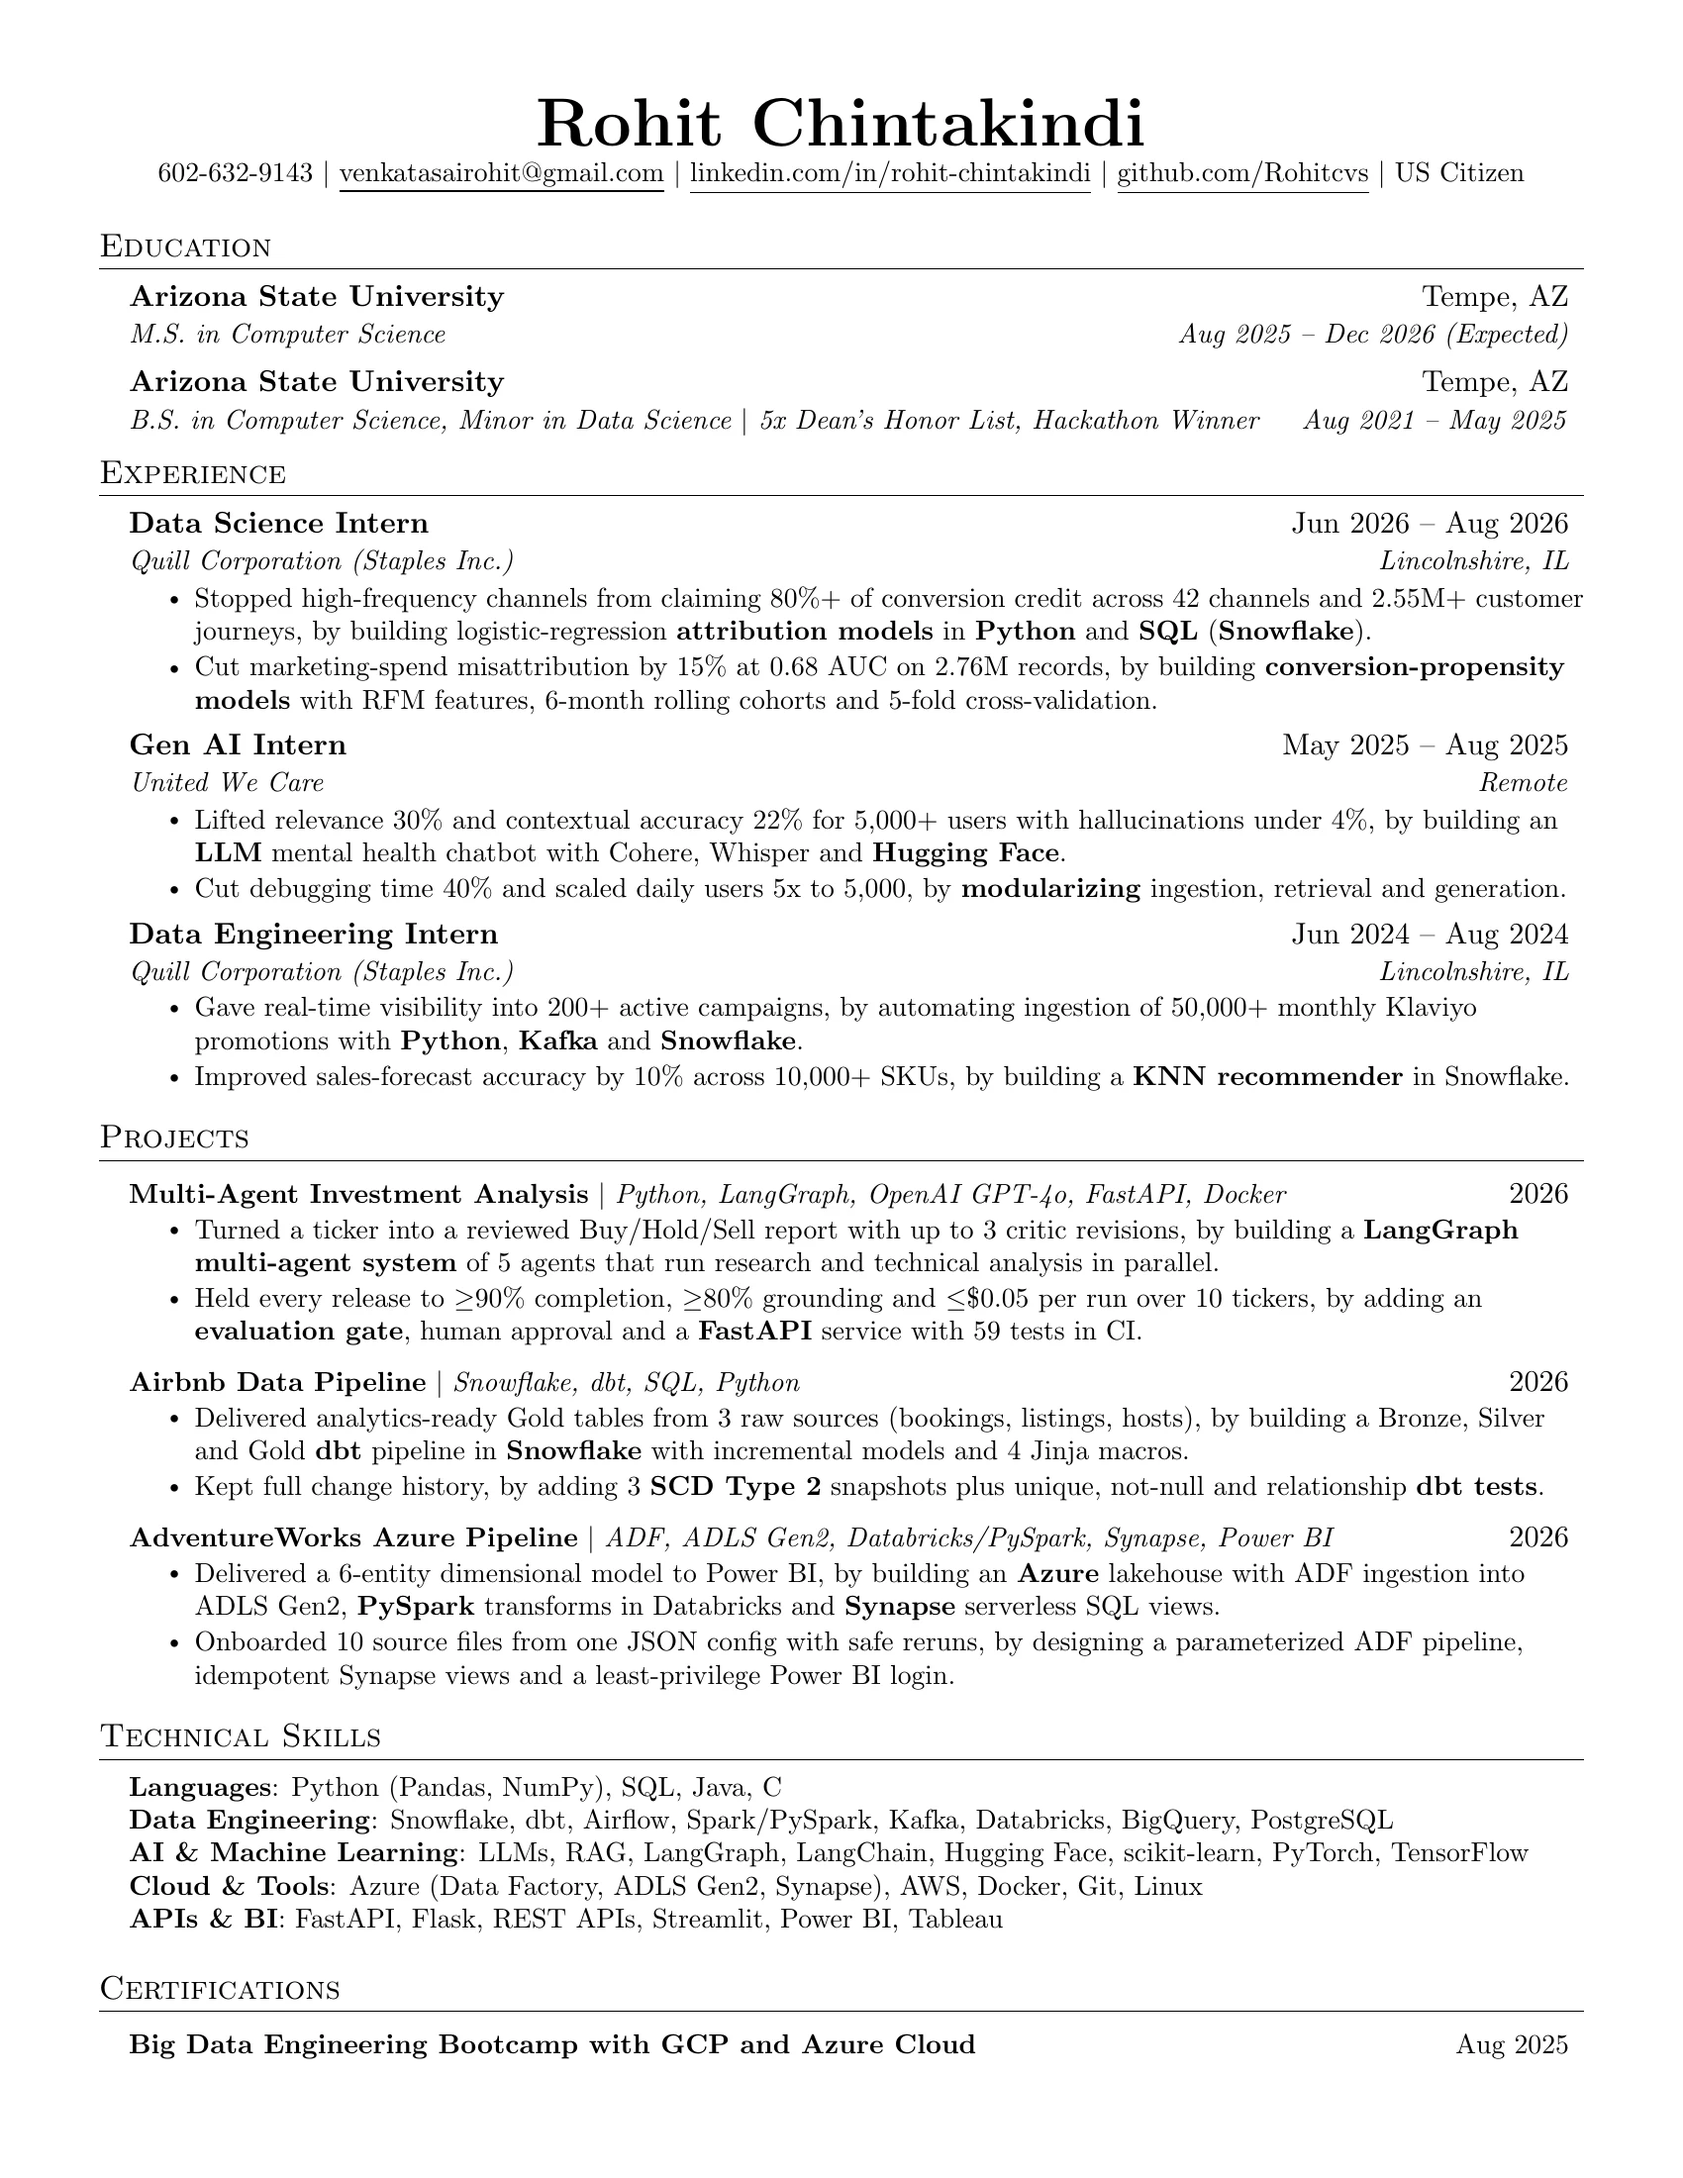
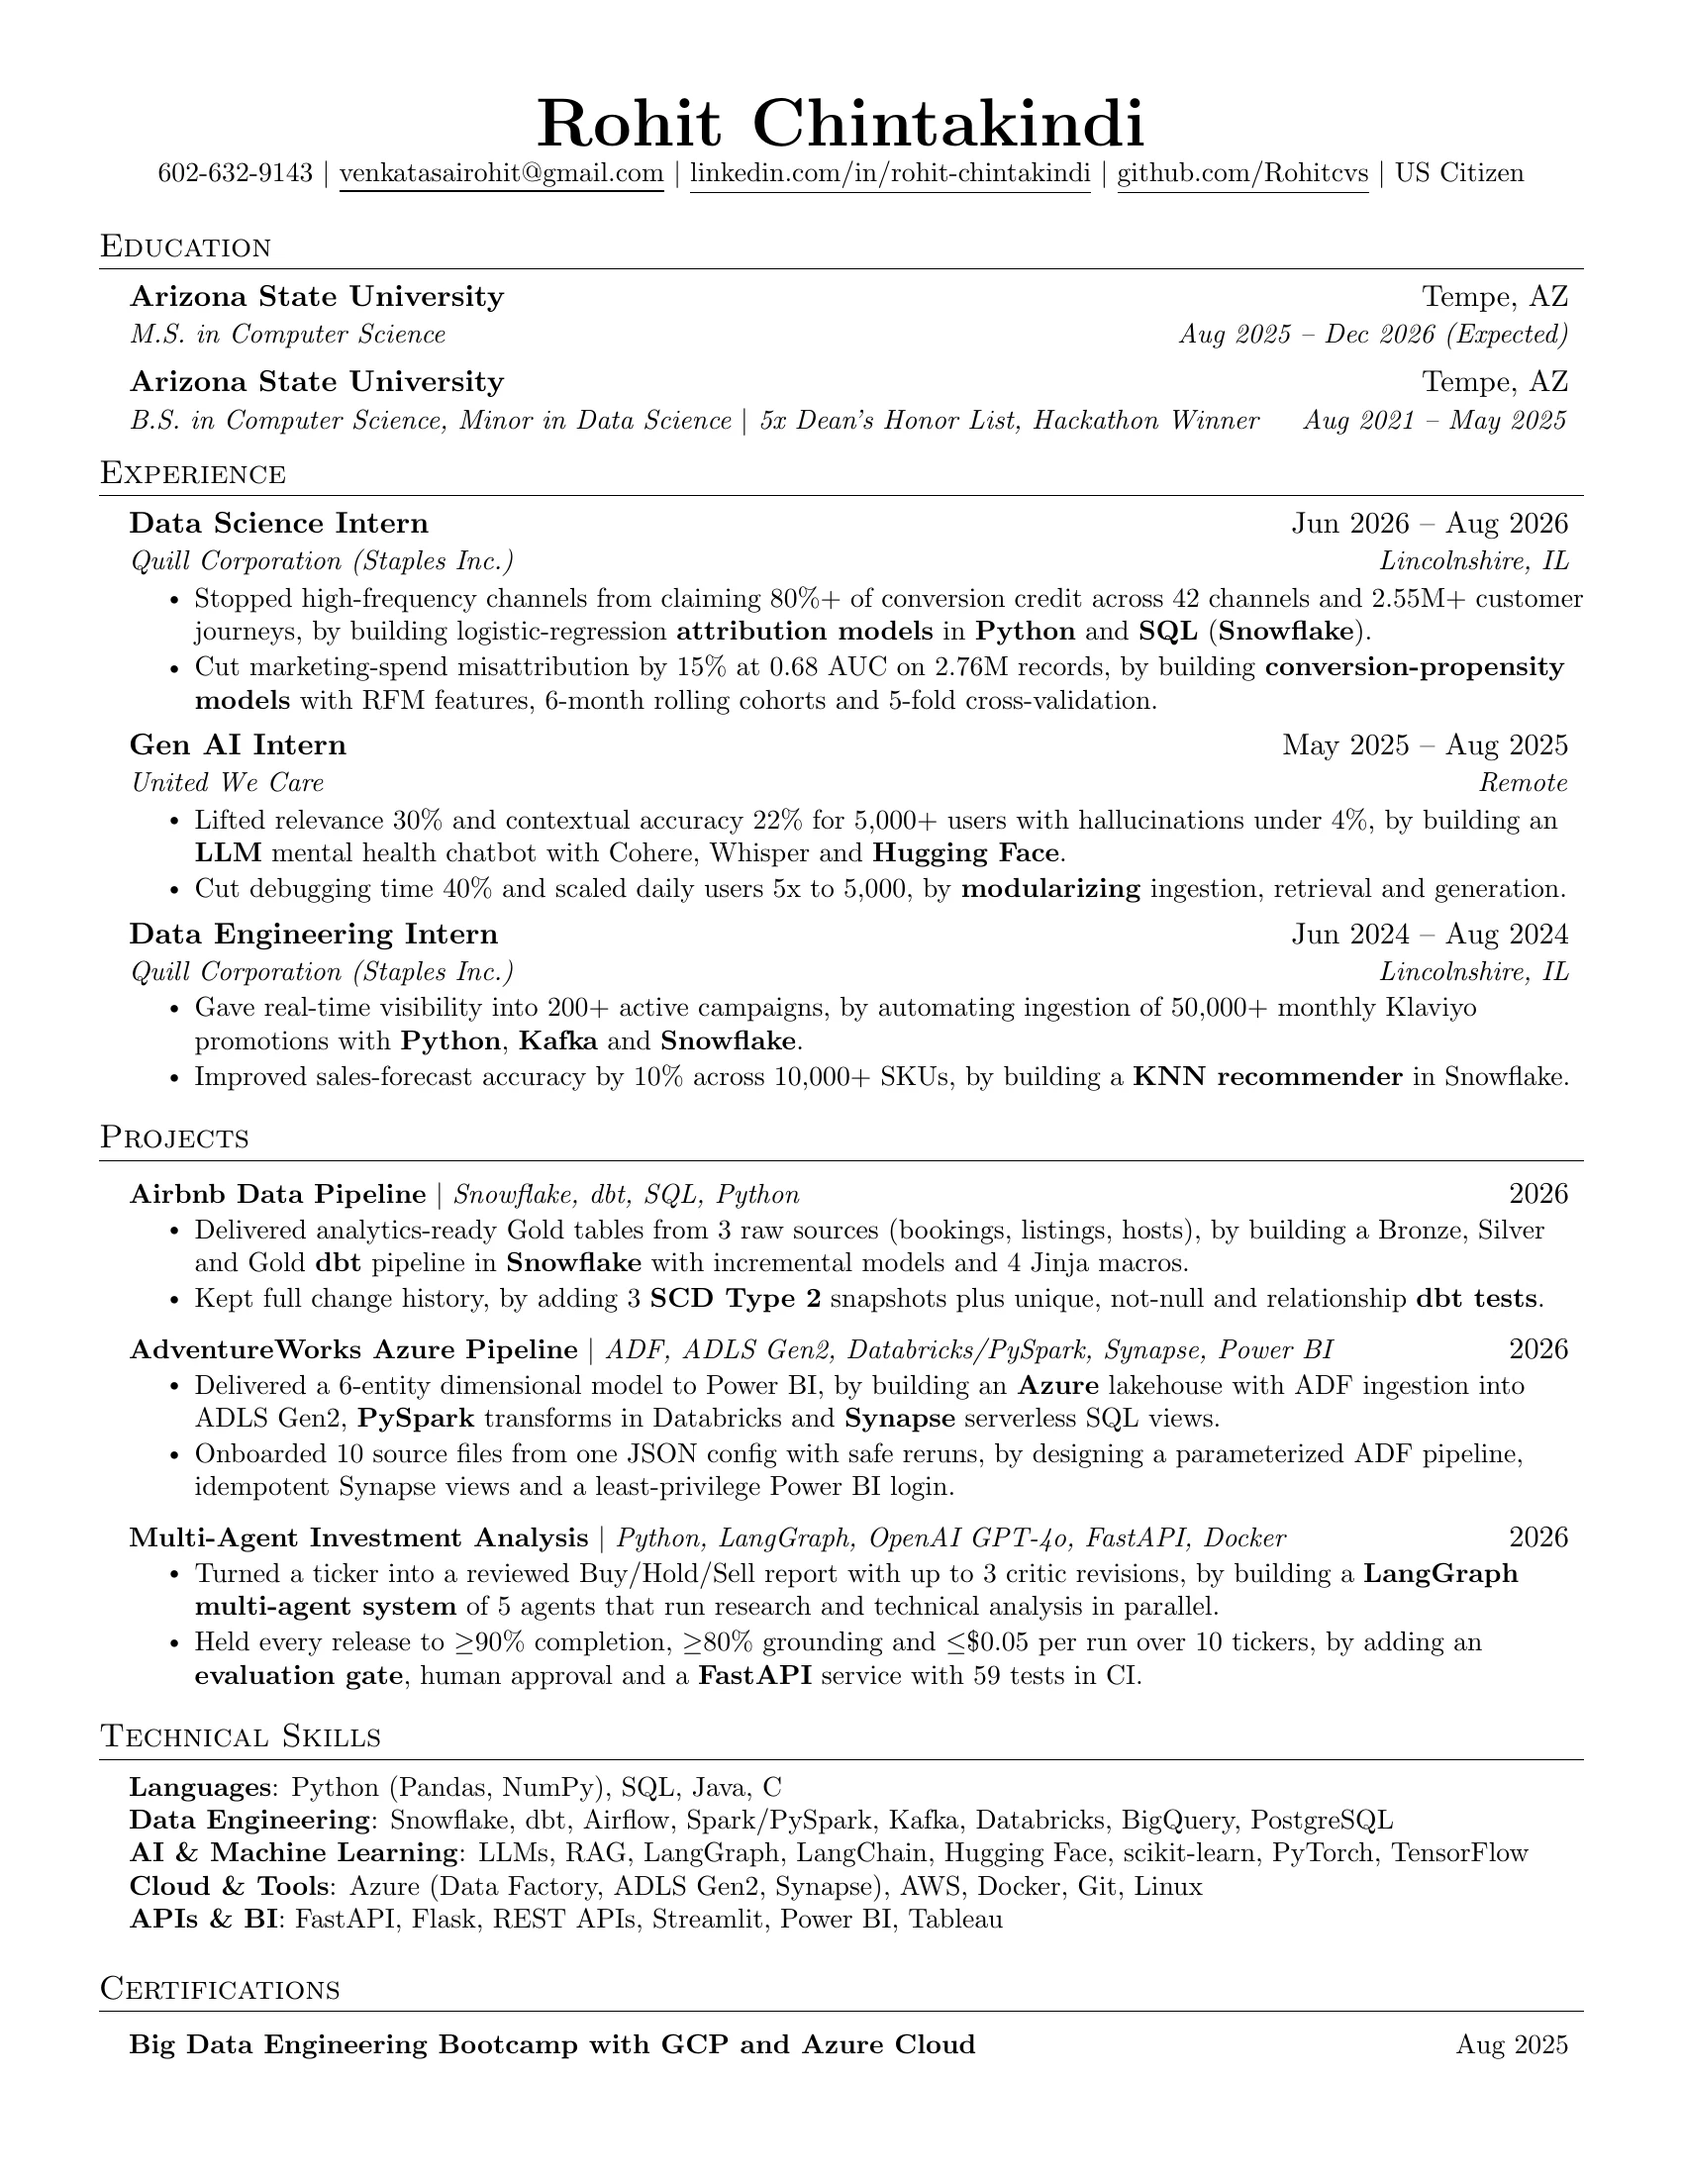
Use the Data Engineer resume as the public resume
Claude-Session: https://claude.ai/code/session_018CNC6HNiTZDjjdihcLWzsf

Changed region(s): [[0.0624, 0.5255, 0.9353, 0.7727]]

diff --git a/resume/index.html b/resume/index.html
@@ -11,11 +11,11 @@
 <meta property="og:title" content="Resume: Rohit Chintakindi">
 <meta property="og:description" content="One-page resume of Rohit Chintakindi: Data Science, Gen AI and Data Engineering internships, LLM agent and data pipeline projects. View or download the PDF.">
 <meta property="og:url" content="https://rohitcvs.github.io/resume/">
-<meta property="og:image" content="https://rohitcvs.github.io/img/resume-card-v2.png">
+<meta property="og:image" content="https://rohitcvs.github.io/img/resume-card-v3.png">
 <meta property="og:image:width" content="1200">
 <meta property="og:image:height" content="627">
 <meta name="twitter:card" content="summary_large_image">
-<meta name="twitter:image" content="https://rohitcvs.github.io/img/resume-card-v2.png">
+<meta name="twitter:image" content="https://rohitcvs.github.io/img/resume-card-v3.png">
 <style>
 @font-face{font-family:"Bricolage Grotesque";font-weight:700;font-display:swap;src:url(../fonts/bricolage-grotesque-latin-700-normal.woff2) format("woff2")}
 @font-face{font-family:"IBM Plex Sans";font-weight:400;font-display:swap;src:url(../fonts/ibm-plex-sans-latin-400-normal.woff2) format("woff2")}
